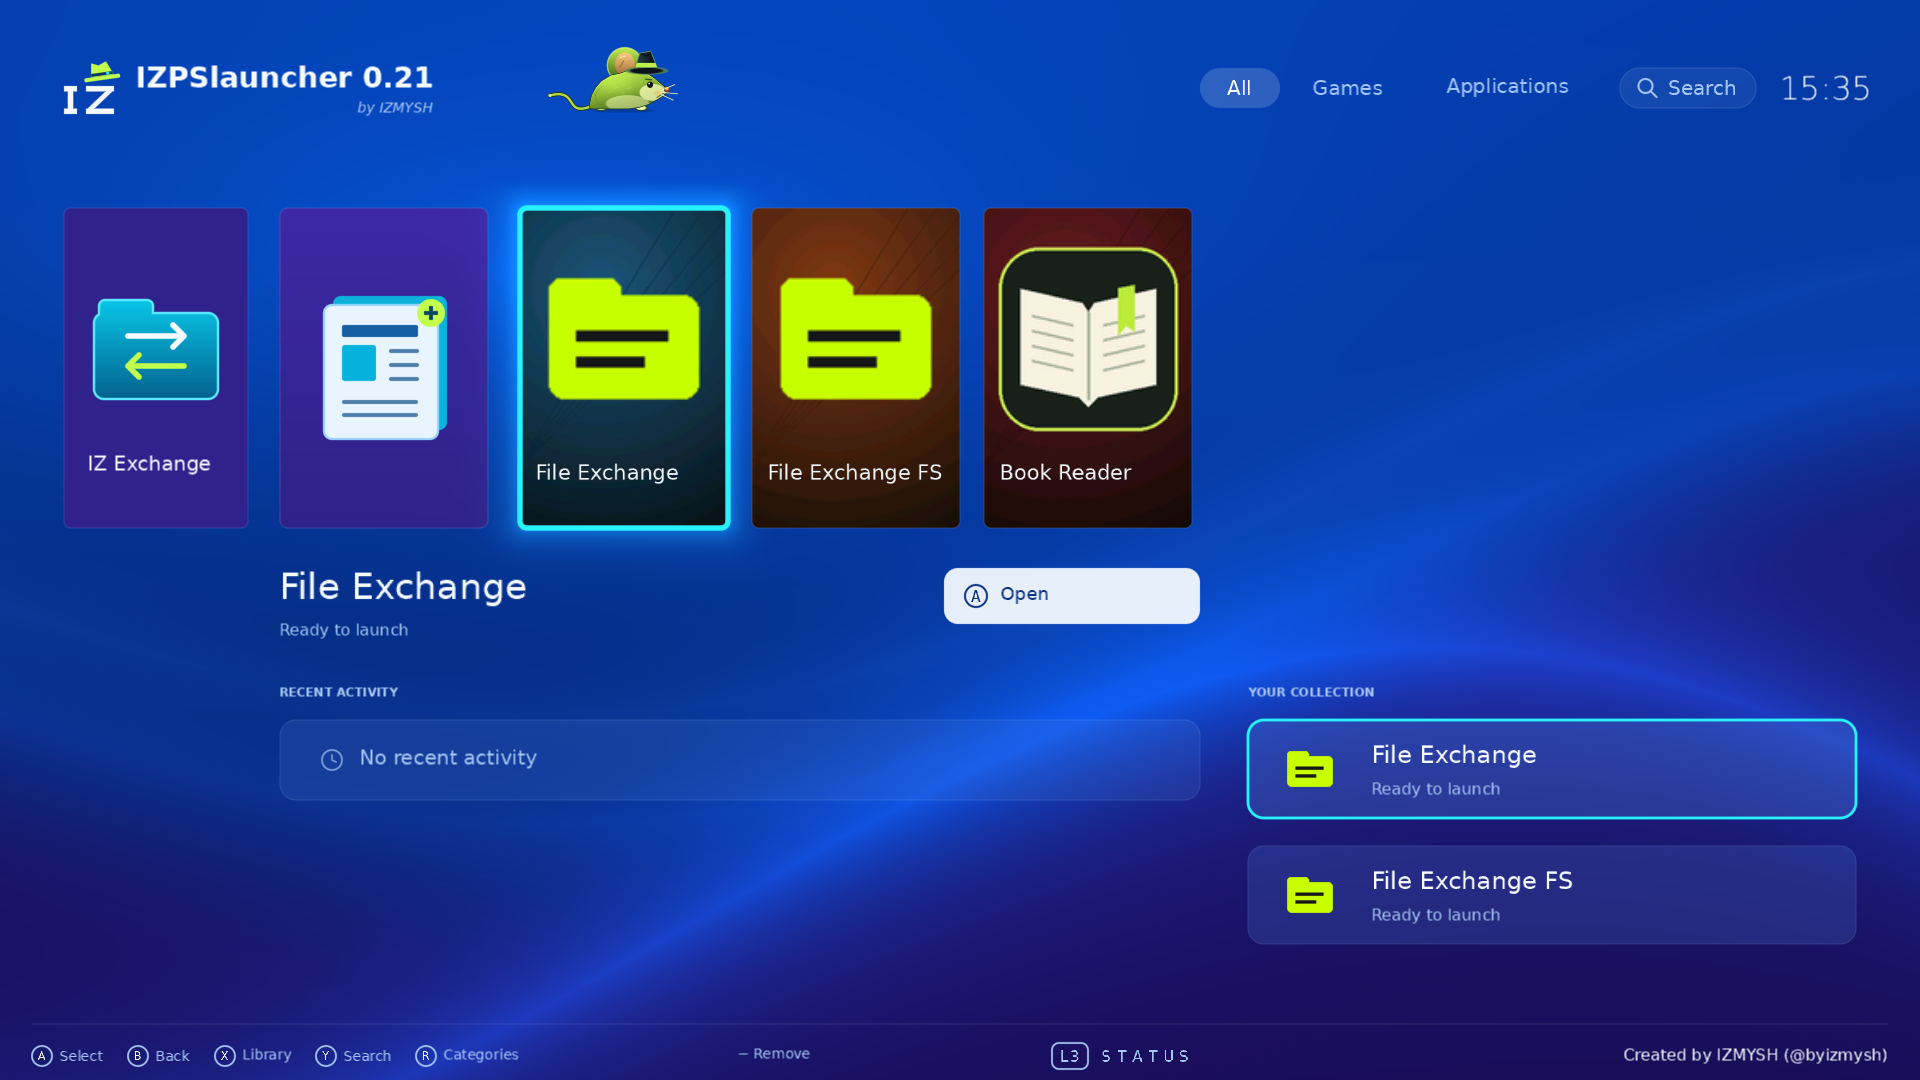
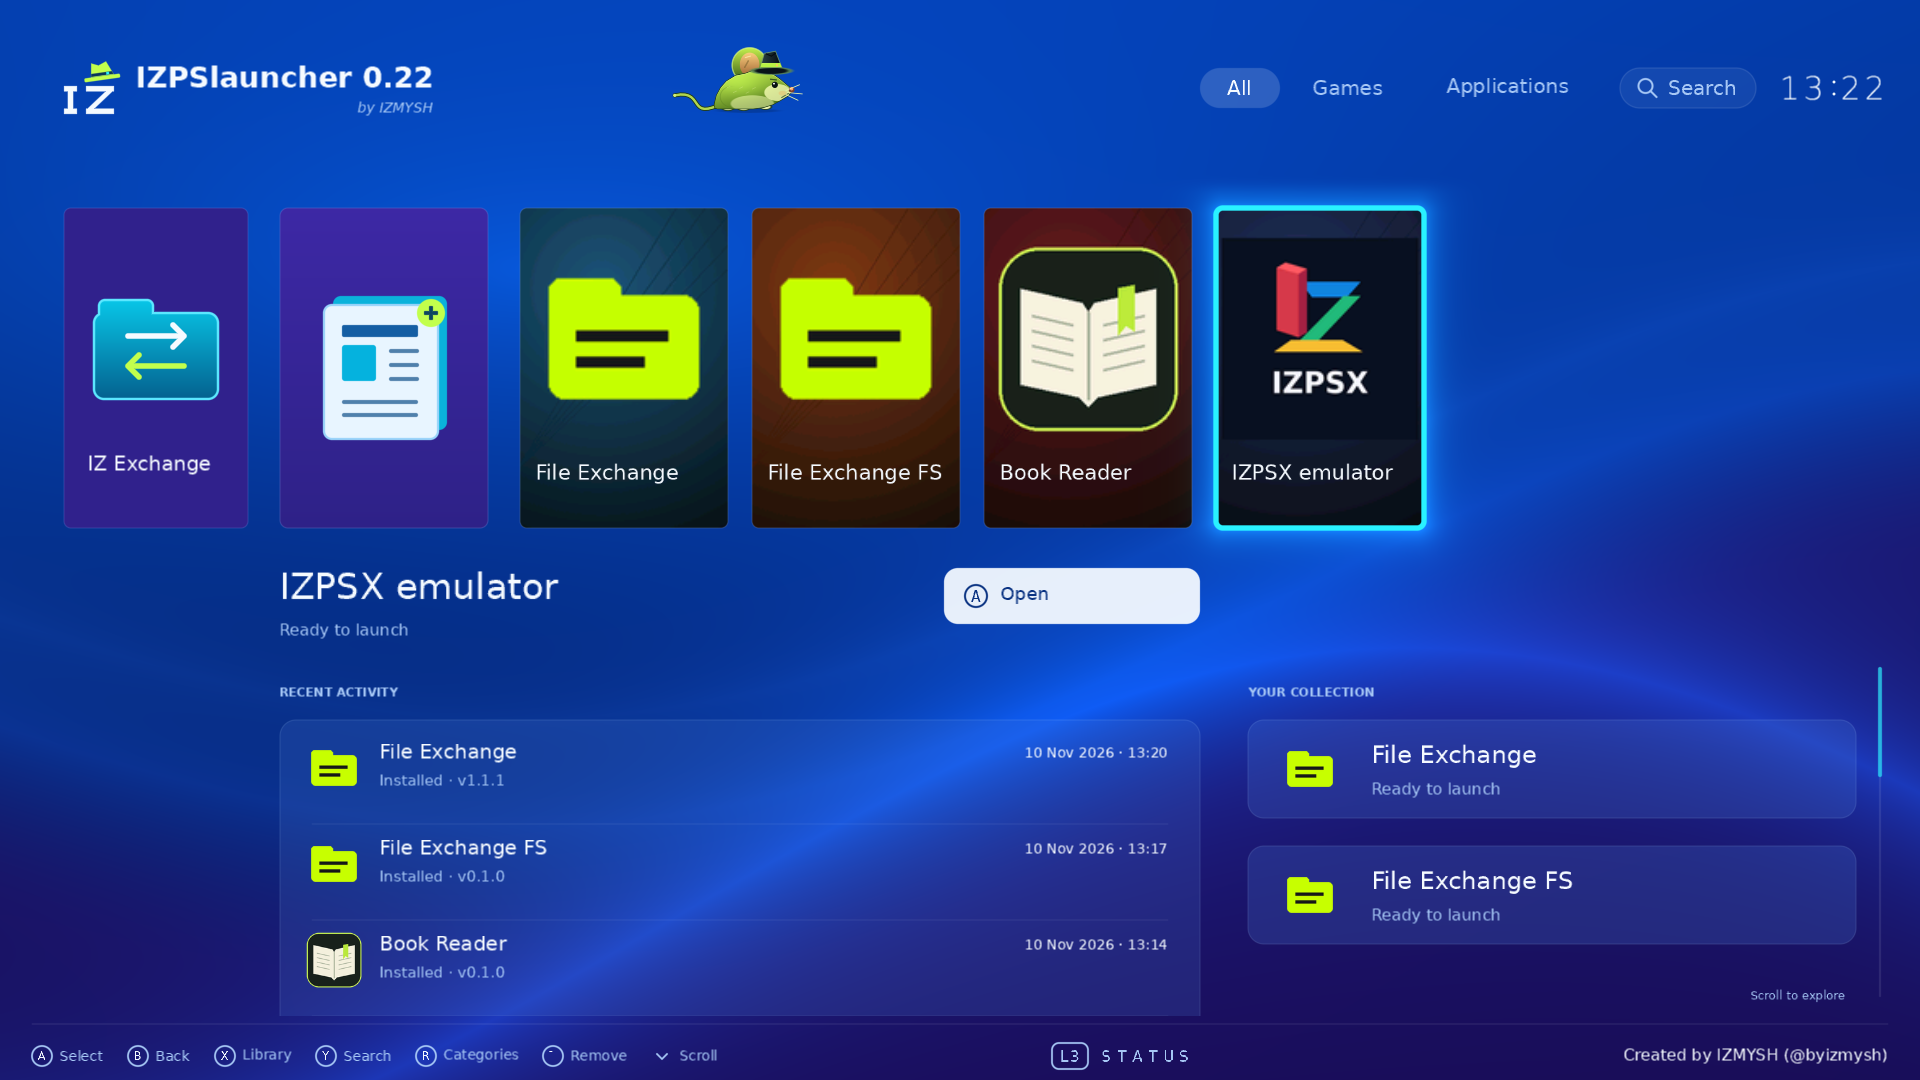
Restore setup guides, optional modules and fresh 0.22 launcher screenshots

diff --git a/README.md b/README.md
@@ -2,9 +2,41 @@
 
 IZ2S Platform is a local PC control panel and console launcher system for Switch 2. Choose **SmileBASIC 4** or **Civilization VII**, connect the console, and manage applications in **IZlauncher** or **IZPSlauncher**. **IZ2S Core** is the default connection engine.
 
+Support for **Balatro** will be added within a week after the developer receives a physical copy. Balatro is not included in this release.
+
 This is a **locally prepared 0.22.0 release candidate**. Nothing is uploaded or published by the build tools. Release targets are **Linux x64/ARM64 only**. Windows and macOS packages are not included. A supplied archive is not a hardware qualification claim. See [Compatibility](COMPATIBILITY.md).
 
-[Install](#installation) · [SmileBASIC](#smilebasic-4) · [Civilization VII](#civilization-vii) · [Bundled apps](#included-applications) · [FAQ](FAQ.md) · [Release notes](RELEASE-NOTES.md) · [Support](SUPPORT.md)
+[Screenshots](#screenshots) · [Recommended setup](#recommended-console-and-network-setup) · [Install](#installation) · [Input devices](#input-devices) · [Additional modules](#additional-modules) · [SmileBASIC](#smilebasic-4) · [Civilization VII](#civilization-vii) · [Bundled apps](#included-applications) · [FAQ](FAQ.md) · [Release notes](RELEASE-NOTES.md) · [Support](SUPPORT.md)
+
+## Screenshots
+
+New images of the 0.22 interface. The PC panel is captured in an isolated preview with example connection/installation data. Console-menu images are rendered from the shipped 0.22 shaders and bundled app artwork, with example activity; they are not photographs of a running console. See [image provenance](docs/SCREENSHOTS.md).
+
+### PC control panel
+
+| Connection | App library |
+| --- | --- |
+| [![IZ2S Platform 0.22 connection page](docs/images/connection.png)](docs/images/connection.png) | [![IZ2S Platform 0.22 App library](docs/images/app-library.png)](docs/images/app-library.png) |
+| Connection status, launcher actions, files and uploads, and console inventory. | The bundled apps, RAM/SD installation choices, status and location filters. |
+
+### Console menus
+
+| IZlauncher | IZPSlauncher |
+| --- | --- |
+| [![IZlauncher 0.22](docs/images/izlauncher.png)](docs/images/izlauncher.png) | [![IZPSlauncher 0.22](docs/images/izpslauncher.png)](docs/images/izpslauncher.png) |
+| App tiles, selected app and recent activity over the animated background. | Alternative console library and navigation using the same bundled applications. |
+
+## Recommended console and network setup
+
+Prepare these before First Setup and a fresh native launch:
+
+1. Check the [supported game/system configuration](COMPATIBILITY.md). For SmileBASIC FS acquisition, start in **handheld mode** and use **wired LAN** where available. These are setup recommendations, not a guarantee of acquisition.
+2. Keep the PC and console on the same reachable local network. For automatic input, the PC must also reach the chosen ADV/ARM device. Guest Wi-Fi or client isolation can prevent local devices from communicating even when all show internet access. Allow the application's required local traffic in the PC firewall; do not disable the firewall wholesale.
+3. Restrict the console's internet access while preserving local communication. [SWFence](https://github.com/byizmysh/SWFence) provides a LAN-only policy on a compatible OpenWrt router. [90DNS](https://gitlab.com/a/90dns) filters Nintendo domains; **it does not block all internet traffic**. Follow each project's current instructions. With SWFence, use local IPv4 addresses when hostname/mDNS discovery is unavailable.
+4. Keep the input device's **USB data cable** connected to the console/dock as required by its guide. A charging cable is insufficient. Wi-Fi reachability alone does not prove USB keyboard/controller readiness.
+5. On a fresh SmileBASIC launch, open **Make a Program → Direct**, use the expected English/US keyboard layout and match Caps Lock in the panel. For Civ7, follow the wizard's lobby/chat or Load Game screen for the selected stage instead of entering a BASIC Direct screen.
+
+For repeated SmileBASIC FS failures, stop the attempt and fully restart Switch 2. The recovery workaround is to open an installed game for about **10 seconds**, close it completely, then open **SmileBASIC 4 → Make a Program → Direct** and try Launch again. It is not guaranteed; do not retry over an uncertain retained native session. [FS and network FAQ](FAQ.md#recommended-console-and-network-setup).
 
 ## Installation
 
@@ -16,7 +48,33 @@ Extract the whole archive into a writable folder. Keep its files together; do no
 
 Linux supports apt, pacman and dnf dependency installation; initial setup needs internet access. The installer prepares the PC application and does not start a console session, flash a device or install a board OS.
 
-Use [host acceptance steps](distribution/HOST-TESTING.md) to qualify an actual machine. Native features remain subject to each component's host declaration; This release does not enable or qualify other host systems.
+Use [host acceptance steps](distribution/HOST-TESTING.md) to qualify an actual machine. Native features remain subject to each component's host declaration; this release does not enable or qualify other host systems.
+
+## Input devices
+
+**Cardputer ADV and ARM PC are alternatives; you do not need both.** They provide automatic USB input for SmileBASIC and Civ7 USB delivery. Civ7 **IZ2S core Wi-Fi** First Setup uses the PC Wi-Fi adapter directly and needs neither device. After a supported session connects, ordinary launcher/file traffic uses LAN/Wi-Fi.
+
+### Cardputer ADV
+
+1. Choose **Cardputer ADV** in the panel and open **Setup and firmware**. Use the package offered for the selected game. The release keeps the SmileBASIC profile at **0.21.3** and supplies the Civ7/default composite firmware at **0.22.4**; do not select a firmware just because its number is higher.
+2. Connect ADV to the PC with a data cable and enable **USB storage** in M5Launcher. Let the panel copy only to a positively identified ADV card, or download the **File** package and extract it to the card root. Keep M5Launcher, other firmware and existing Wi-Fi configuration. The package carries its pairing file; keep it private.
+3. Eject storage normally. Use **SD → Utilities** in M5Launcher and run the application image supplied by the package. This is an M5Launcher application, not an address-zero bootloader image; use the offered filename rather than renaming/flashing it manually.
+4. Join the local Wi-Fi that can reach the PC. Select the access point on ADV, type its password and press Enter. **Tab** shows/hides the password. If `iz2s-adv.local` is unavailable, enter the IPv4 address displayed on ADV in the panel's device settings. A plain IP is accepted.
+5. Move the ADV **USB data cable from the PC to Switch 2/dock**. The PC continues controlling ADV over Wi-Fi. The panel checks USB state over that link; complete **Confirm connection** if offered. A manual cable confirmation records your cable choice and does not replace measured keyboard/controller readiness.
+6. Match the panel's **Caps Lock** setting to the console. Wait for the required USB interfaces to become ready, then follow First Setup or the fresh Launch screen. Use panel **Stop**, or the documented ADV stop control, to interrupt input. Accepted input is not automatically replayed after losing a receipt or restarting ADV.
+
+The composite Civ7 profile provides keyboard and controller input; the SmileBASIC profile uses its supplied keyboard workflow. Idle USB recovery must not replay source text or reset active typing. A charge-only cable, unavailable dock data port or guest-network isolation needs the corresponding cable/host/network fix. See the [full ADV firmware, Wi-Fi, USB and recovery guide](hardware/devices/cardputer-adv/README.txt), [M5Stack device documentation](https://docs.m5stack.com/en/core/Cardputer-Adv) and [M5Launcher application guide](https://github.com/bmorcelli/Launcher/wiki/Explaining-the-project).
+
+### ARM PC
+
+1. Prepare the board's own Linux OS first: Python 3, systemd, SSH and a working **USB device/OTG controller** with configfs/libcomposite/HID support. A USB-C connector alone is not evidence of gadget support. The IZ2S package does not install a board OS or supply a missing USB driver.
+2. Connect the PC and board over LAN. Verify the board's SSH host fingerprint through its own console, then enter its IPv4 address, user and optional private-key path in the panel's **Device settings**. Keep password entry in the terminal; the panel never uploads your private key.
+3. Choose **Install package** for that board, or download the self-contained ARM installer for manual/password-only setup. Civ7 and SmileBASIC installer names contain the same input agent; use the file offered by the panel. Existing input API 1 installations do not need replacing for every launcher update.
+4. For manual installation, copy the downloaded installer to the board, connect by SSH and run it there with Python 3 and the necessary privileges. `--check` inspects the board; `--check-package` validates the embedded package without installing. Do not run it on the server PC unless that PC is itself the intended USB input board.
+5. Connect the board's **USB data/OTG port to Switch 2/dock**. Check the keyboard interface for SmileBASIC and both keyboard/controller interfaces for Civ7 automatic input. A successful SSH connection does not prove that Switch has configured USB input.
+6. Start input from the panel only on the requested game screen. Stop releases the owned input interfaces; losing an SSH receipt is not permission to enqueue the same source again. Leave unrelated board USB gadgets and services intact.
+
+See the [full ARM setup, manual installation, checks and troubleshooting guide](hardware/agents/arm-input/README.md). The PC-to-ARM LAN link and ARM-to-console USB link are separate; a Civilization VII wireless lobby may temporarily pause the console's IP network without breaking PC-to-ARM SSH.
 
 ## SmileBASIC 4
 
@@ -49,6 +107,17 @@ The release includes exactly these user-facing apps/tools:
 Super File Bros. is integrated PC tooling, not an extra console IZM payload. The four console IZM modules are built from their included descriptors and assets on startup. **Games, BIOS, prod.keys, personal books, saves, logs and device credentials are not included.** The matching IZPSX corresponding source is in [sources/izpsx](sources/izpsx).
 
 BlitBun, VacooTube, IZDOOM, IZPS2, controller labs and experimental builds are **not bundled** in this release. Independently obtained compatible modules can still be installed through the App library.
+
+## Additional modules
+
+These are separate downloads, **not part of the five-app/tool bundle above**. Install IZ2S Platform first, then follow the selected module's own instructions and host/dependency requirements.
+
+| Module | What it does | Useful features | Download and setup |
+| --- | --- | --- | --- |
+| **[BlitBun](https://github.com/byizmysh/BlitBun)** | Streams a PC application's video and audio to Switch 2. | Live output-resolution changes, separate Dock/Handheld profiles and optional forwarding of controllers paired with the console to the PC. Streaming needs a running PC application and a usable local connection; FPS options are targets, not guaranteed rates. | [Latest release](https://github.com/byizmysh/BlitBun/releases/latest) · [Install and configure](https://github.com/byizmysh/BlitBun#readme) |
+| **[VacooTube](https://github.com/byizmysh/VacooTube)** | YouTube player controlled from Switch 2 through a TV-style interface; its application runs on the PC. | Console touch/controller navigation, search and playback, live interface-resolution settings and its own bundled BlitBun streaming engine. A separate BlitBun installation is not required; the PC/network and online video service remain necessary. | [Latest release](https://github.com/byizmysh/VacooTube/releases/latest) · [Install and configure](https://github.com/byizmysh/VacooTube#readme) |
+
+Both packages carry their own PC/console integration and can be installed independently. Neither module requires the other. Use a release compatible with your platform/native ABI; downloading a package does not install its host dependencies or update an already running console session. Other compatible modules are described in [the module guide](modules/README.md).
 
 ## RAM, SD and files
 

diff --git a/FAQ.md b/FAQ.md
@@ -10,7 +10,7 @@ Linux x64/ARM64 only. Windows and macOS packages are outside the 0.22 release sc
 
 ## How do I install and open the panel?
 
-Extract every file, open `Install-Linux.desktop` or `Install.cmd`, and follow the OS prompts. On Linux, `sh install.sh --launch` is the terminal alternative. Start the installed app later with its shortcut or `start.sh`/`Start.cmd`. Do not run from inside the ZIP. Installation may download verified runtime dependencies; it does not start a console session.
+Extract every file, open `Install-Linux.desktop`, and follow the desktop prompts. On Linux, `sh install.sh --launch` is the terminal alternative. Start the installed app later with its shortcut or `start.sh`. Do not run from inside the ZIP. Installation may download verified runtime dependencies; it does not start a console session.
 
 ## What screen must SmileBASIC show for Launch?
 
@@ -93,3 +93,13 @@ The bundled module is 0.5.1. Its matching corresponding source is in `sources/iz
 ## How can I report a problem?
 
 See [SUPPORT.md](SUPPORT.md). Include the platform/module version, PC OS and architecture, game/version, selected engine/menu and whether the app is in RAM or on SD. Export only the relevant attempt log after reviewing it for private information. A local automated pass is not physical console qualification.
+
+## Recommended console and network setup
+
+Start SmileBASIC FS acquisition in handheld mode and prefer wired LAN where available. Keep the PC, console and chosen input device reachable on the local network, with guest/client isolation disabled for this setup. These are recommendations, not a success guarantee. [SWFence](https://github.com/byizmysh/SWFence) can restrict console internet traffic on a compatible OpenWrt router while preserving the allowed local network. [90DNS](https://gitlab.com/a/90dns) filters Nintendo domains and is not a general internet firewall. Use local IPv4 addresses when hostname discovery is unavailable. See the [full preparation steps](README.md#recommended-console-and-network-setup).
+
+For repeated SmileBASIC FS failure: stop, fully restart Switch 2, open an installed game for about ten seconds, close it completely, then open SmileBASIC 4 → Make a Program → Direct for a fresh Launch. This is a workaround, not guaranteed recovery; do not retry over uncertain retained native resources.
+
+## Which input device and firmware should I choose?
+
+ADV and ARM are alternatives. Civ7 Wi-Fi LDN needs neither; USB delivery uses the chosen input device. ADV firmware packages are game-specific: the bundled SmileBASIC profile remains 0.21.3, while Civ7/default composite firmware is 0.22.4. Use the package selected by the panel rather than substituting a newer-looking image. [ADV steps](README.md#cardputer-adv) and [ARM steps](README.md#arm-pc) explain firmware/card copying, Wi-Fi/SSH, USB data/OTG and readiness checks.

diff --git a/docs/SCREENSHOTS.md b/docs/SCREENSHOTS.md
@@ -1,0 +1,27 @@
+# Screenshots for IZ2S Platform 0.22
+
+These images were regenerated for the local 0.22 release candidate on 10 November 2026. The old 0.21 README images were replaced.
+
+## PC panel
+
+`images/connection.png` and `images/app-library.png` are browser captures of the actual current panel UI in English at a 1600 × 1080 viewport. The isolated documentation server used example local addresses, an example running session and four bundled modules shown on SD. It made no console connection and sent no input or native RPC command. The examples are interface illustrations, not a hardware qualification record. No account, pairing token, keys, game files or personal session history is shown.
+
+## Console menus
+
+`images/izlauncher.png` and `images/izpslauncher.png` are 1920 × 1080 offscreen renders of the shipped vertex/fragment shaders, font resources and bundled module artwork. The IZlauncher image uses the current purple gradient design, mouse header, RAM labels and recent activity; it is not the older launcher or an IZ2Launcher concept image. The shader binaries matched the current development launcher at capture time.
+
+Run `node tools/docs-launcher-previews.cjs` on a Linux development host with the documented C/Vulkan/Pillow prerequisites to regenerate the console-menu images. Temporary inputs are written to ignored `data/build-cache/docs-0.22/`. Example install activity is synthetic and separate from real job history. These images do not capture a physical console or establish performance/animation frame-rate results.
+
+## File fingerprints
+
+| Image | SHA-256 |
+| --- | --- |
[4 lines of base64/hex data omitted]
+
+| Shipped fragment shader | SHA-256 |
+| --- | --- |
[2 lines of base64/hex data omitted]
